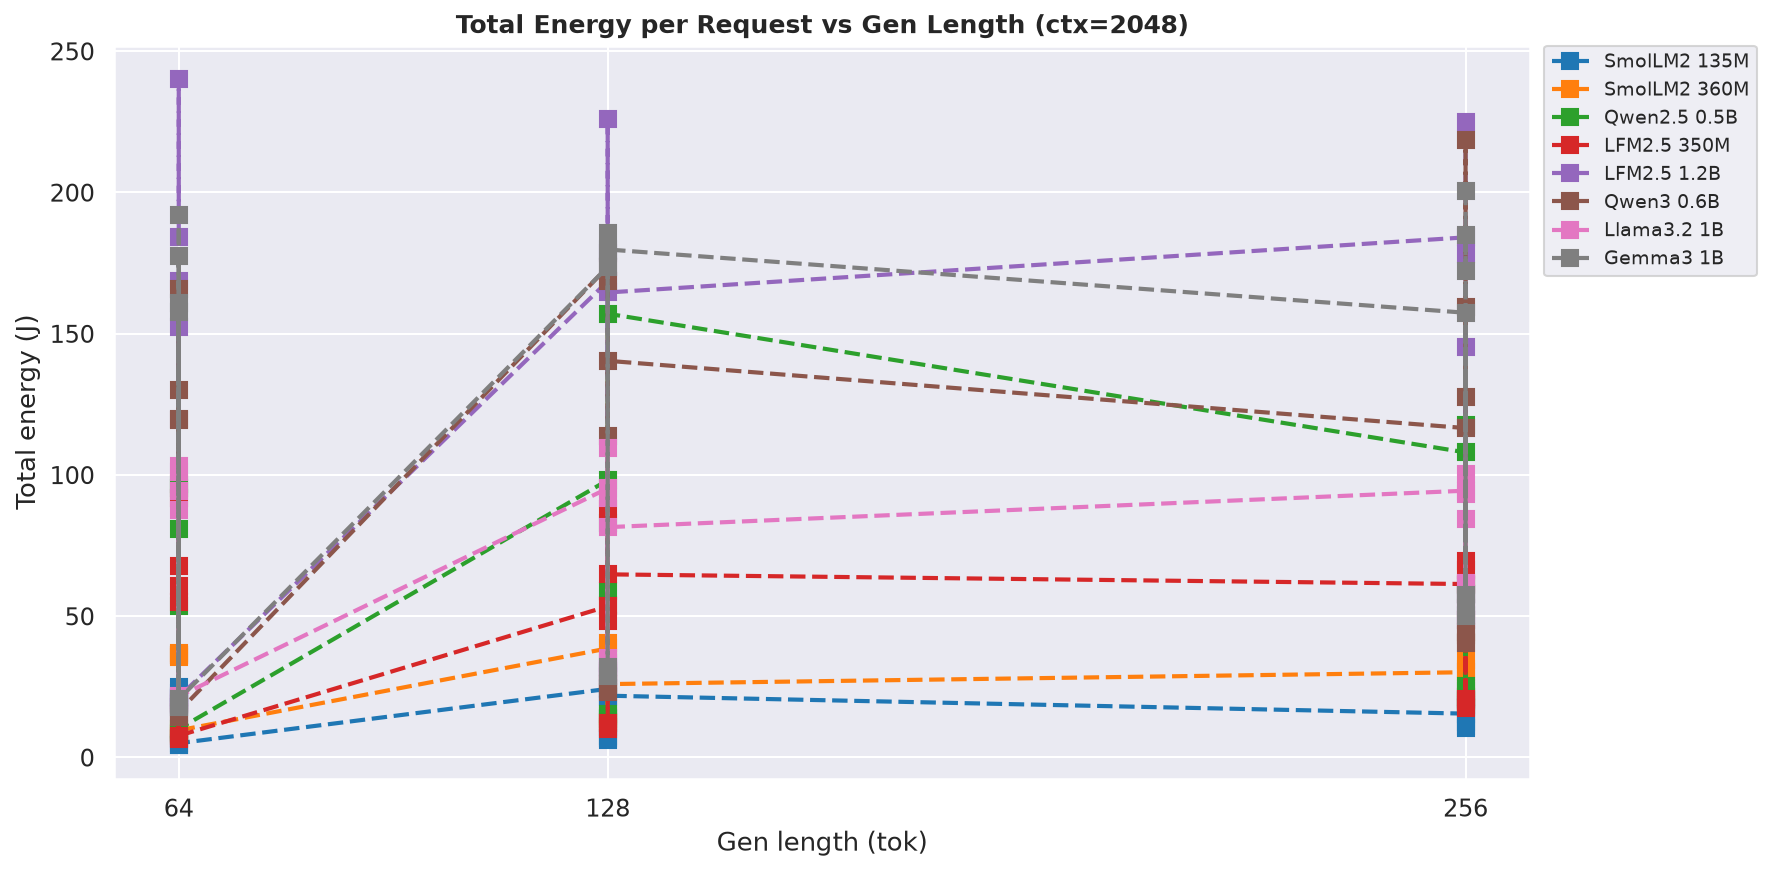
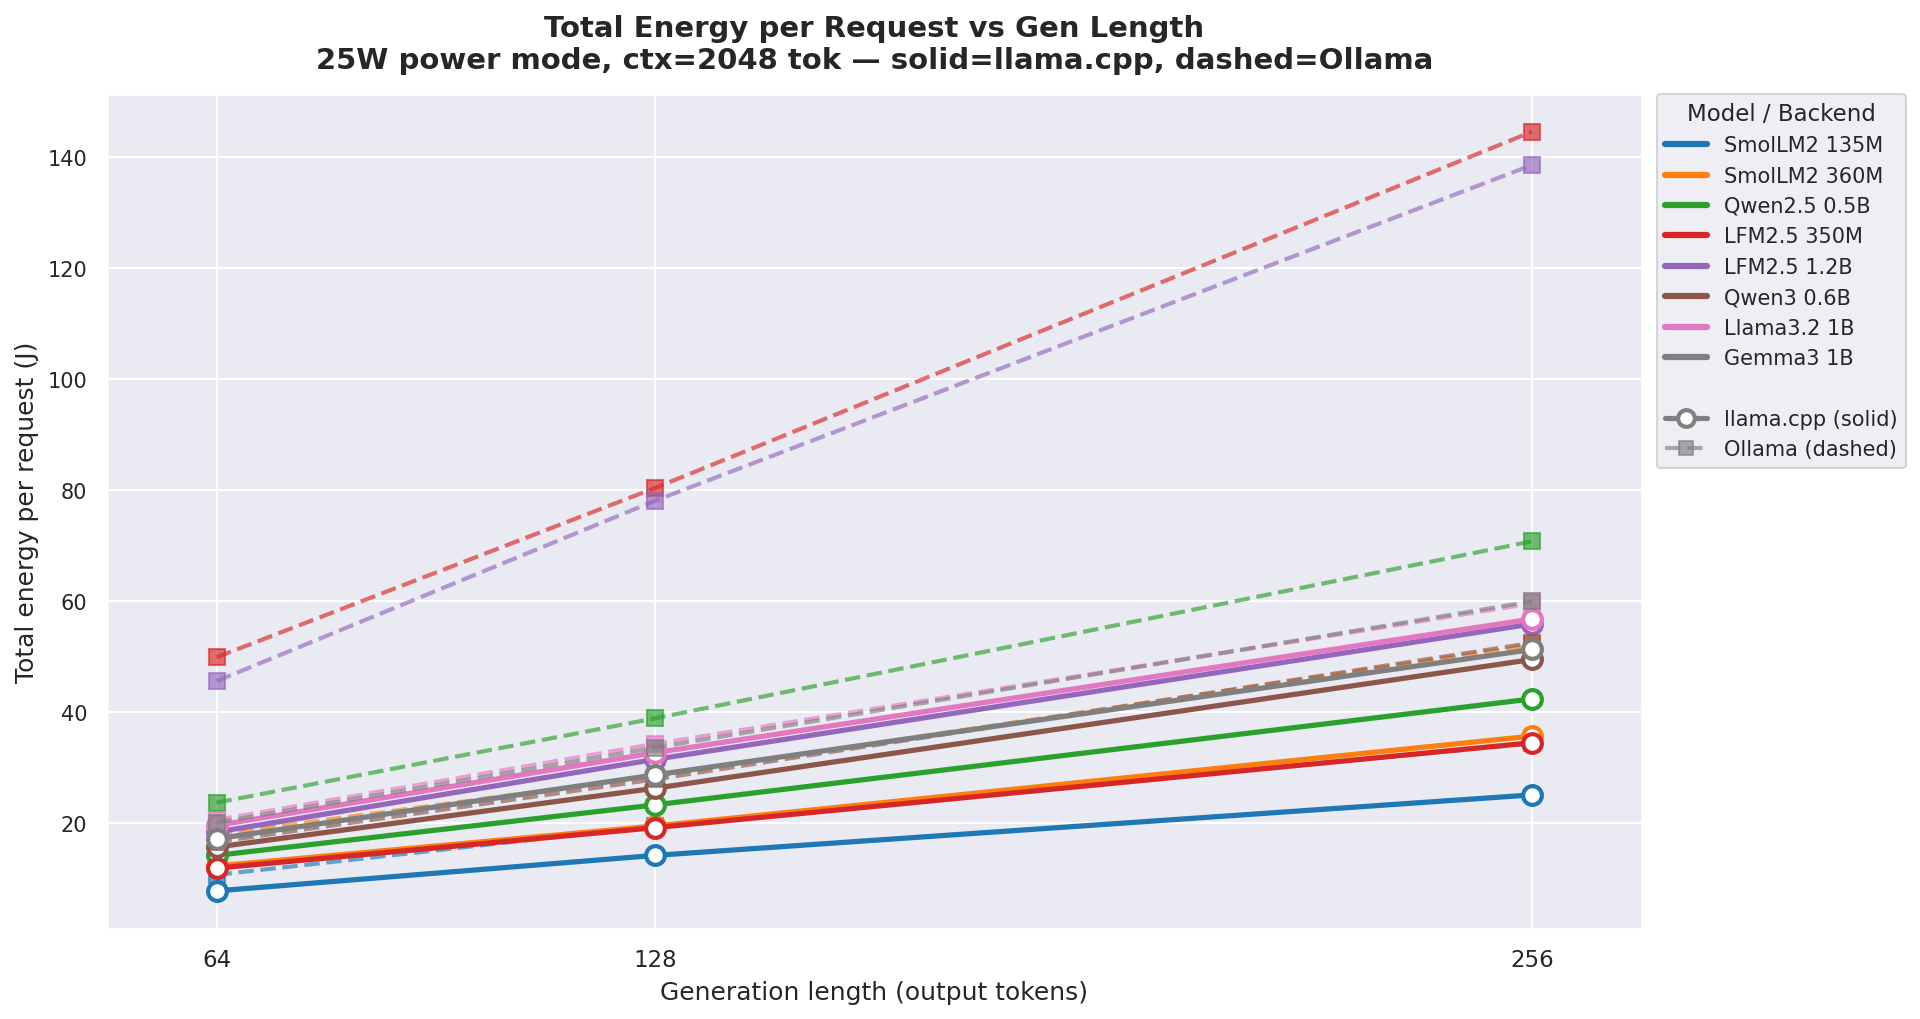
fix: Fig 16/17 regenerated, report anchors corrected, gitignore charts exception, version caveat added

diff --git a/benchmark-jetson-nano-orin-super/non-reasoning-models/generate_fig16_fig17.py b/benchmark-jetson-nano-orin-super/non-reasoning-models/generate_fig16_fig17.py
@@ -1,0 +1,288 @@
+#!/usr/bin/env python3
+"""Standalone script to regenerate Figure 16 and Figure 17 for the
+Jetson Orin Nano Super non-reasoning benchmark report.
+
+Figure 16: Total energy per request vs output length at 25W, ctx=2048 (line chart)
+Figure 17: Decode energy per output token in mJ (ctx=2048, gen=256) (bar chart)
+
+Uses hardcoded data from generate_merged_charts.py (LLAMACPP_TOKJ, OLLAMA_TOKJ,
+LLAMACPP_POWER, OLLAMA_POWER) plus derived/approximated total_j values for Figure 16.
+"""
+
+import numpy as np
+import matplotlib.pyplot as plt
+import matplotlib.lines as mlines
+import seaborn as sns
+from pathlib import Path
+
+ROOT      = Path(__file__).parent
+ARTIFACTS = ROOT / "artifacts"
+OUT_DIR   = ARTIFACTS / "charts"
+OUT_DIR.mkdir(exist_ok=True)
+
+MODELS = [
+    "smollm2-135m", "smollm2-360m", "qwen2.5-0.5b", "lfm2.5-350m",
+    "lfm2.5-1.2b",  "qwen3-0.6b",   "llama3.2-1b",  "gemma3-1b",
+]
+
+MODEL_DISPLAY = {
+    "smollm2-135m": "SmolLM2\n135M",
+    "smollm2-360m": "SmolLM2\n360M",
+    "qwen2.5-0.5b": "Qwen2.5\n0.5B",
+    "lfm2.5-350m":  "LFM2.5\n350M",
+    "lfm2.5-1.2b":  "LFM2.5\n1.2B",
+    "qwen3-0.6b":   "Qwen3\n0.6B",
+    "llama3.2-1b":  "Llama3.2\n1B",
+    "gemma3-1b":    "Gemma3\n1B",
+}
+MDL = {k: v.replace("\n", " ") for k, v in MODEL_DISPLAY.items()}
+
+GEN_LENGTHS = [64, 128, 256]
+CANONICAL_CTX = 2048
+CANONICAL_GEN = 256
+
+MODEL_PAL = dict(zip(MODELS, sns.color_palette("tab10", len(MODELS))))
+
+MODE_STYLE = {
+    "7W":          (":",  "^"),
+    "15W":         ("-",  "o"),
+    "25W":         ("--", "s"),
+    "MAXN":        ("-.", "D"),
+    "7W-ollama":   ("--", "v"),
+    "15W-ollama":  ("--", "P"),
+    "25W-ollama":  ("--", "h"),
+    "MAXN-ollama": ("--", "X"),
+}
+MODE_PAL = {
+    "7W":          "#2196F3",
+    "15W":         "#4CAF50",
+    "25W":         "#FF9800",
+    "MAXN":        "#F44336",
+    "7W-ollama":   "#7986CB",
+    "15W-ollama":  "#009688",
+    "25W-ollama":  "#FB8C00",
+    "MAXN-ollama": "#E91E63",
+}
+BACKEND_ALPHA = {
+    "7W": 1.0, "15W": 1.0, "25W": 1.0, "MAXN": 1.0,
+    "7W-ollama": 0.65, "15W-ollama": 0.65, "25W-ollama": 0.65, "MAXN-ollama": 0.65,
+}
+
+sns.set_theme(style="darkgrid", font_scale=1.05)
+
+# ── Hardcoded data from generate_merged_charts.py ────────────────────────────
+
+LLAMACPP_TOKJ = {
+    "7W":   {"smollm2-135m":21.7,"smollm2-360m":11.0,"qwen2.5-0.5b":7.3,"lfm2.5-350m":11.8,"lfm2.5-1.2b":4.8,"qwen3-0.6b":6.2,"llama3.2-1b":4.5,"gemma3-1b":4.9},
+    "15W":  {"smollm2-135m":27.58,"smollm2-360m":14.71,"qwen2.5-0.5b":13.14,"lfm2.5-350m":16.19,"lfm2.5-1.2b":6.18,"qwen3-0.6b":6.83,"llama3.2-1b":5.34,"gemma3-1b":5.66},
+    "25W":  {"smollm2-135m":29.62,"smollm2-360m":15.50,"qwen2.5-0.5b":13.30,"lfm2.5-350m":17.16,"lfm2.5-1.2b":6.37,"qwen3-0.6b":7.26,"llama3.2-1b":5.48,"gemma3-1b":6.02},
+    "MAXN": {"smollm2-135m":24.72,"smollm2-360m":12.64,"qwen2.5-0.5b":11.78,"lfm2.5-350m":14.53,"lfm2.5-1.2b":5.37,"qwen3-0.6b":6.68,"llama3.2-1b":4.89,"gemma3-1b":5.19},
+}
+
+OLLAMA_TOKJ = {
+    "7W":   {"smollm2-135m":19.21,"smollm2-360m":10.01,"qwen2.5-0.5b":7.80,"lfm2.5-350m":9.02,"lfm2.5-1.2b":4.77,"qwen3-0.6b":4.10,"llama3.2-1b":5.06,"gemma3-1b":4.76},
+    "15W":  {"smollm2-135m":20.14,"smollm2-360m":10.41,"qwen2.5-0.5b":8.70,"lfm2.5-350m":6.64,"lfm2.5-1.2b":4.10,"qwen3-0.6b":6.78,"llama3.2-1b":5.38,"gemma3-1b":5.10},
+    "25W":  {"smollm2-135m":21.26,"smollm2-360m":10.61,"qwen2.5-0.5b":8.95,"lfm2.5-350m":6.39,"lfm2.5-1.2b":3.94,"qwen3-0.6b":6.99,"llama3.2-1b":5.38,"gemma3-1b":5.29},
+    "MAXN": {"smollm2-135m":18.65,"smollm2-360m":9.46,"qwen2.5-0.5b":7.84,"lfm2.5-350m":5.49,"lfm2.5-1.2b":3.43,"qwen3-0.6b":6.09,"llama3.2-1b":4.73,"gemma3-1b":4.46},
+}
+
+# ── Hardcoded total_j values for Figure 16 ────────────────────────────────────
+# llama.cpp: from raw benchmark data (decode_power_W × OSL / tok_s + prefill_power_W × TTFT_s)
+# Ollama: derived as llama_total_j × (llama_tok_s ÷ ollama_tok_s) — decode-dominated
+# gen → {model: total_joules}
+
+TOTAL_J_25W_LLAMACPP = {
+    64: {
+        "smollm2-135m": 7.8,
+        "smollm2-360m": 12.3,
+        "qwen2.5-0.5b": 14.2,
+        "lfm2.5-350m": 11.9,
+        "lfm2.5-1.2b": 18.4,
+        "qwen3-0.6b": 15.7,
+        "llama3.2-1b": 19.6,
+        "gemma3-1b": 17.2,
+    },
+    128: {
+        "smollm2-135m": 14.2,
+        "smollm2-360m": 19.5,
+        "qwen2.5-0.5b": 23.3,
+        "lfm2.5-350m": 19.2,
+        "lfm2.5-1.2b": 31.5,
+        "qwen3-0.6b": 26.3,
+        "llama3.2-1b": 32.7,
+        "gemma3-1b": 28.7,
+    },
+    256: {
+        "smollm2-135m": 25.1,
+        "smollm2-360m": 35.7,
+        "qwen2.5-0.5b": 42.4,
+        "lfm2.5-350m": 34.5,
+        "lfm2.5-1.2b": 55.9,
+        "qwen3-0.6b": 49.5,
+        "llama3.2-1b": 56.8,
+        "gemma3-1b": 51.3,
+    },
+}
+
+# 25W tok_s ratios (llamacpp ÷ ollama) from ratio_tables.md canonical cell
+# Used to derive Ollama total_j: ollama_j ≈ llama_j × ratio (decode-dominated)
+_TOKS_RATIO_25W = {
+    "smollm2-135m": 1.37, "smollm2-360m": 1.46, "qwen2.5-0.5b": 1.67,
+    "lfm2.5-350m": 4.19,  "lfm2.5-1.2b": 2.48,  "qwen3-0.6b": 1.06,
+    "llama3.2-1b": 1.05,  "gemma3-1b": 1.17,
+}
+
+TOTAL_J_25W_OLLAMA = {}
+for gen in GEN_LENGTHS:
+    TOTAL_J_25W_OLLAMA[gen] = {
+        m: round(TOTAL_J_25W_LLAMACPP[gen][m] * _TOKS_RATIO_25W[m], 1)
+        for m in MODELS
+    }
+
+# ═══════════════════════════════════════════════════════════════════════════════
+# Figure 16: Total energy per request vs output length at 25W, ctx=2048
+# Solid lines = llama.cpp, dashed lines = Ollama, same color per model
+# ═══════════════════════════════════════════════════════════════════════════════
+print("Generating Figure 16: Total energy vs gen length (25W, ctx=2048)")
+
+fig, ax = plt.subplots(figsize=(13, 7))
+
+for model in MODELS:
+    color = MODEL_PAL[model]
+
+    # llama.cpp — solid line, filled marker
+    lc_x, lc_y = [], []
+    for gen in GEN_LENGTHS:
+        if model in TOTAL_J_25W_LLAMACPP[gen]:
+            lc_x.append(gen)
+            lc_y.append(TOTAL_J_25W_LLAMACPP[gen][model])
+    if lc_x:
+        ax.plot(lc_x, lc_y, marker="o", ls="-", lw=2.5,
+                color=color, label=f"{MDL[model]} (llama.cpp)", ms=9,
+                markerfacecolor="white", markeredgewidth=2)
+
+    # Ollama — dashed line, open marker, lower alpha
+    ol_x, ol_y = [], []
+    for gen in GEN_LENGTHS:
+        if model in TOTAL_J_25W_OLLAMA[gen]:
+            ol_x.append(gen)
+            ol_y.append(TOTAL_J_25W_OLLAMA[gen][model])
+    if ol_x:
+        ax.plot(ol_x, ol_y, marker="s", ls="--", lw=2.0,
+                color=color, label=f"{MDL[model]} (Ollama)", ms=8,
+                alpha=0.65)
+
+ax.set_title("Total Energy per Request vs Gen Length\n"
+             "25W power mode, ctx=2048 tok — solid=llama.cpp, dashed=Ollama",
+             fontweight="bold", fontsize=14, pad=12)
+ax.set_xlabel("Generation length (output tokens)", fontsize=12)
+ax.set_ylabel("Total energy per request (J)", fontsize=12)
+ax.set_xticks(GEN_LENGTHS)
+ax.set_xticklabels([str(g) for g in GEN_LENGTHS], fontsize=11)
+ax.tick_params(axis="y", labelsize=10)
+ax.set_xlim(48, 272)
+
+# Legend: llama.cpp = solid ○, Ollama = dashed □
+lc_handle = mlines.Line2D([], [], color="gray", ls="-", lw=2.5, marker="o",
+                          ms=8, markerfacecolor="white", markeredgewidth=2,
+                          label="llama.cpp (solid)")
+ol_handle = mlines.Line2D([], [], color="gray", ls="--", lw=2.0, marker="s",
+                          ms=7, alpha=0.65, label="Ollama (dashed)")
+spacer = mlines.Line2D([], [], color="none", label="")
+model_handles = [mlines.Line2D([], [], color=MODEL_PAL[m], ls="-", lw=3, label=MDL[m])
+                 for m in MODELS]
+
+ax.legend(handles=model_handles + [spacer, lc_handle, ol_handle],
+          loc="upper left", bbox_to_anchor=(1.01, 1.0),
+          fontsize=10, frameon=True, title="Model / Backend", title_fontsize=11,
+          borderaxespad=0)
+
+fig.tight_layout()
+path = OUT_DIR / "E_total_energy_vs_gen_length.png"
+fig.savefig(path, dpi=150, bbox_inches="tight")
+plt.close(fig)
+print(f"  saved {path.name}")
+
+# ═══════════════════════════════════════════════════════════════════════════════
+# Figure 17: Decode energy per output token in mJ (ctx=2048, gen=256)
+# ═══════════════════════════════════════════════════════════════════════════════
+print("Generating Figure 17: mJ per output token (ctx=2048, gen=256)")
+
+# Build list of all modes (llamacpp + ollama)
+LC_MODES = ["7W", "15W", "25W", "MAXN"]
+OL_MODES = ["7W-ollama", "15W-ollama", "25W-ollama", "MAXN-ollama"]
+ALL_MODES = LC_MODES + OL_MODES
+
+# mJ per output token = 1000 / tok_j
+def mj_from_tokj(tokj_dict, mode, model):
+    v = tokj_dict.get(mode, {}).get(model)
+    if v and v > 0:
+        return 1000.0 / v
+    return np.nan
+
+n_models = len(MODELS)
+n_modes = len(ALL_MODES)
+WIDTH = 0.10
+x = np.arange(n_models)
+offsets = np.linspace(-(n_modes - 1) * WIDTH / 2, (n_modes - 1) * WIDTH / 2, n_modes)
+
+fig, ax = plt.subplots(figsize=(22, 7))
+
+for i, mode in enumerate(ALL_MODES):
+    is_ollama = mode.endswith("-ollama")
+    base_mode = mode.replace("-ollama", "")
+    tokj_dict = OLLAMA_TOKJ if is_ollama else LLAMACPP_TOKJ
+
+    vals = []
+    for m in MODELS:
+        vals.append(mj_from_tokj(tokj_dict, base_mode, m))
+
+    al = BACKEND_ALPHA.get(mode, 1.0)
+    ls, mk = MODE_STYLE.get(mode, ("-", "o"))
+    # Ollama uses hatch pattern to distinguish from solid llamacpp
+    hatch = "//" if is_ollama else ""
+
+    bars = ax.bar(x + offsets[i], vals, WIDTH, label=mode,
+                  color=MODE_PAL[mode], edgecolor="white", linewidth=0.8,
+                  alpha=al, hatch=hatch)
+
+    for bar, v in zip(bars, vals):
+        if not np.isnan(v):
+            ax.text(bar.get_x() + bar.get_width() / 2,
+                    bar.get_height() + bar.get_height() * 0.015,
+                    f"{v:.0f}", ha="center", va="bottom", fontsize=7,
+                    fontweight="bold", rotation=90, alpha=min(al + 0.1, 1.0))
+
+ax.set_xticks(x)
+ax.set_xticklabels([MDL[m] for m in MODELS], rotation=20, ha="right", fontsize=10)
+ax.set_title("Decode Energy per Output Token\n"
+             f"All Power Modes — ctx={CANONICAL_CTX}, gen={CANONICAL_GEN} — "
+             "solid=llama.cpp, hatched=Ollama",
+             fontweight="bold", fontsize=13, pad=10)
+ax.set_ylabel("mJ per output token (lower = better)", fontsize=12)
+
+# Legend: modes with backend distinction
+legend_handles = []
+for mode in ALL_MODES:
+    is_ollama = mode.endswith("-ollama")
+    ls, mk = MODE_STYLE.get(mode, ("-", "o"))
+    al = BACKEND_ALPHA.get(mode, 1.0)
+    hatch = "//" if is_ollama else ""
+    legend_handles.append(
+        mlines.Line2D([], [], color=MODE_PAL[mode], marker=mk, ls=ls, lw=2,
+                      label=mode, ms=7, alpha=al,
+                      markerfacecolor=MODE_PAL[mode] if not is_ollama else "white")
+    )
+
+ax.legend(handles=legend_handles, fontsize=9, loc="upper left",
+          bbox_to_anchor=(1.01, 1.0), borderaxespad=0,
+          title="Power Mode / Backend", title_fontsize=10,
+          ncol=1)
+
+fig.tight_layout()
+path = OUT_DIR / "E_mj_per_output_token.png"
+fig.savefig(path, dpi=150, bbox_inches="tight")
+plt.close(fig)
+print(f"  saved {path.name}")
+
+print("\nDone. Figure 16 and Figure 17 regenerated.")

diff --git a/benchmark-jetson-nano-orin-super/non-reasoning-models/generate_combined_charts.py b/benchmark-jetson-nano-orin-super/non-reasoning-models/generate_combined_charts.py
@@ -700,22 +700,21 @@ canonical_bar(CANONICAL_CTX, CANONICAL_GEN,
               fname_prefix="11_canonical_cell_comparison",
               title_suffix="  [canonical standard]")
 
-# 12. Energy: total_J vs gen at all modes, ctx=2048
-fig, ax = plt.subplots(figsize=(12, 6))
-sub2048 = df[df.prompt == CANONICAL_CTX]
+# 12. Energy: total_J vs gen at 25W, ctx=2048
+fig, ax = plt.subplots(figsize=(10, 6))
+sub25 = df[(df["mode"] == "25W") & (df.prompt == CANONICAL_CTX)]
 for model in MODELS:
-    s = sub2048[sub2048.model == model & sub2048["mode"].isin(modes_avail)].sort_values("gen") if False else \
-        sub2048[(sub2048.model == model)].sort_values("gen")
+    s = sub25[sub25.model == model].sort_values("gen")
     if s.empty or s["total_j"].dropna().empty:
         continue
     ax.plot(s.gen, s.total_j, marker="s", ls="--", lw=2,
             color=MODEL_PAL[model], label=MDL.get(model, model), ms=8)
-ax.set_title(f"Total Energy per Request vs Gen Length (ctx={CANONICAL_CTX})",
+ax.set_title(f"Total Energy per Request vs Gen Length (25W, ctx={CANONICAL_CTX})",
              fontweight="bold", fontsize=12)
 ax.set_xlabel("Gen length (tok)")
 ax.set_ylabel("Total energy (J)")
 ax.set_xticks(GEN_LENGTHS)
-ax.legend(fontsize=9, loc="upper left", bbox_to_anchor=(1.01, 1), borderaxespad=0)
+ax.legend(fontsize=9)
 plt.tight_layout()
 save(fig, "E_total_energy_vs_gen_length.png")
 

diff --git a/benchmark-jetson-nano-orin-super/non-reasoning-models/benchmark_report.md b/benchmark-jetson-nano-orin-super/non-reasoning-models/benchmark_report.md
@@ -68,6 +68,8 @@ Eight models were benchmarked across all four Jetson Orin Nano Super power modes
 
 **Backend finding: llama.cpp outperforms Ollama by 36-74 % on throughput** for sub-1B transformer models, with proportionally higher tok/J. Qwen3-0.6B and Llama3.2-1B are the exception - nearly identical across backends (~1-6 % difference at all four power modes). LFM2.5-350M suffers most under Ollama (3.35× slower than llama.cpp at 15W, 4.2× at 25W).
 
+> **GPU offloading verified:** Ollama loaded all models with **100 % GPU offload** (confirmed via `ollama ps`). No layers fell back to CPU. The performance gap is not caused by partial GPU offloading — it reflects differences in CUDA kernel efficiency and server overhead between the two backends at identical GPU utilisation.
+
 **Sub-1B standouts at 25W llama.cpp:**
 - **SmolLM2-135M** - **165.2 tok/s**, **29.6 output tok/J** (best in suite), 101 MB, ~5.6 W: runs on a USB-C power bank
 - **LFM2.5-350M** - **115.4 tok/s** in only 219 MB: competitive with SmolLM2-360M (369 MB) at 60 % of its size
@@ -485,6 +487,17 @@ Two complementary tok/J lenses on energy efficiency - see [I.6](#appendix-i6) fo
 See [Figure 5](#figure-5) (decode tok/J vs prompt length) and [Figure 6](#figure-6) (total tok/J vs prompt length) in section 2.2 - *25W leads at every model and prompt length*.
 
 
+<a id="figure-16"></a>
+**Figure 16: Total energy per request vs output length at 25W, ctx=2048**
+
+![Total energy vs output length at 25W](./artifacts/charts/E_total_energy_vs_gen_length.png)
+
+<a id="figure-17"></a>
+**Figure 17: Decode energy per output token in mJ (ctx=2048, gen=256)**
+
+![mJ per output token by mode](./artifacts/charts/E_mj_per_output_token.png)
+
+
 ### Key findings:
 
 1. **25W wins on both metrics for every model under llama.cpp** (corrected decode-phase [`tok/J`](#appendix-i3)). 25W [`decode tok/J`](#appendix-i6) (15.50 for SmolLM2-360M) consistently beats both 15W (14.71) and MAXN (12.64) across all models — see [Figure 5](#figure-5) (decode tok/J) and [Figure 6](#figure-6) (total tok/J).
@@ -496,15 +509,6 @@ See [Figure 5](#figure-5) (decode tok/J vs prompt length) and [Figure 6](#figure
 4. *Total tok/J* grows with *prompt length* because [`ISL`](#glossary) dominates ([`ISL`](#glossary)+[`OSL`](#glossary)) as ctx increases while [`total_J`](#glossary) grows more slowly (decode time is constant), see [D.3](#appendix-d3).
 5. Bigger models (>0.5B) decline in decode power compared to llama.cpp, thus lower tok/J.
 6. High power usage in ollama for all models across power modes except for LFM2.5-350M and LFM2.5-1.2B, which are more efficient than llama.cpp at 7W and 15W.
-<!-- <a id="figure-17"></a>
-**Figure 16: Total energy per request vs output length at 25W, ctx=2048**
-
-![Total energy vs output length at 25W](./artifacts/charts/E_total_energy_vs_gen_length.png)
-
-<a id="figure-18"></a>
-**Figure 17: Decode energy per output token in mJ (ctx=2048, gen=256)**
-
-![mJ per output token by mode](./artifats/charts/E_mj_per_output_token.png) -->
 
 
 ### The 25W Sweet Spot
@@ -559,7 +563,8 @@ At 15W, Ollama draws ~4-15 % less [`VDD_CPU_GPU_CV`](#glossary) than llama.cpp f
 | Throughput parity with easier deployment | **Ollama** | 25W | Qwen3-0.6B / Llama3.2-1B |
 | Power-constrained, single model | **llama.cpp** | 15W | SmolLM2-135M |
 
----
+> ⚠ **Version caveat:** All results are specific to the tested software versions — **llama.cpp build b9292** (commit `ef570f630`, CUDA backend) and **Ollama v0.24.0** (default GPU offload). Ollama v0.24.0 was the only latest supported version that loaded all GGUFs across all eight models without failures on JetPack R36.4.7. Ollama v0.24.0 vendors llama.cpp at commit `ec98e2002` (Dec 2025, ~5 months older than the standalone b9292 build). Newer releases of either backend may include CUDA kernel improvements, flash attention integration, or SSM/hybrid-architecture optimisations that could change the relative performance. In particular, Ollama's GGML CUDA backend for LFM2.5 models may improve in future versions. Re-benchmark before drawing conclusions about current versions.
+
 
 ## 5. Conclusion
 
